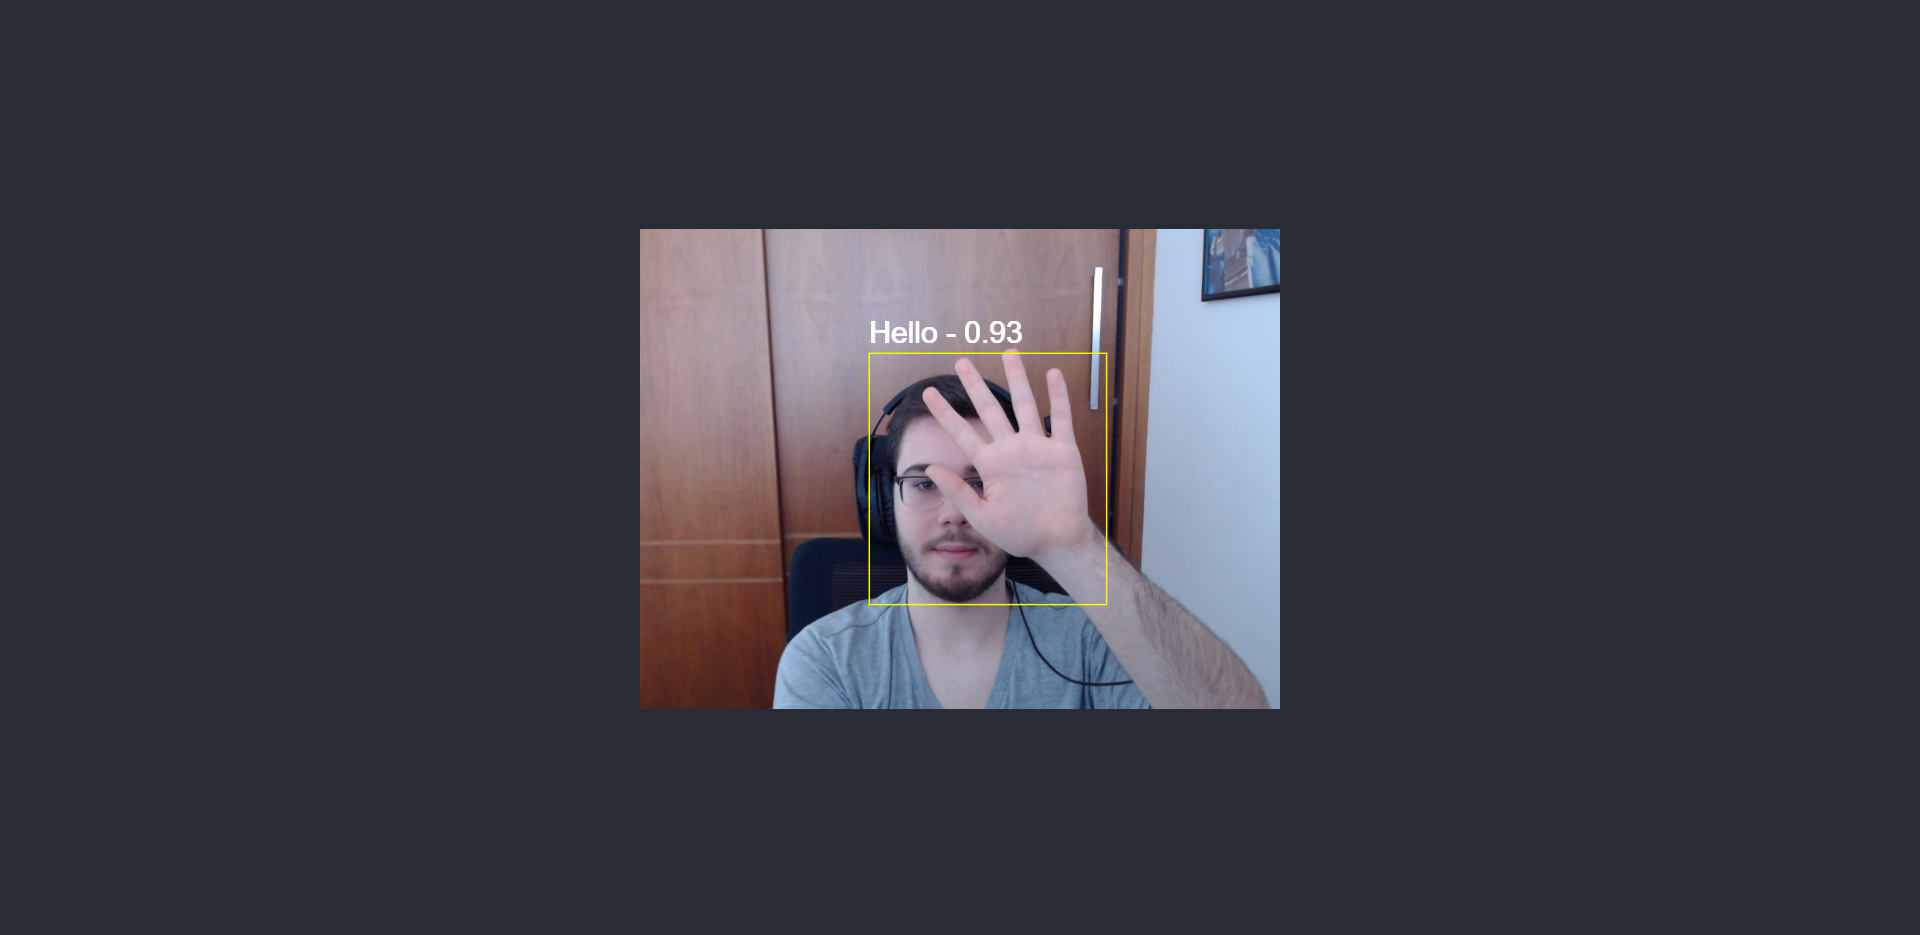
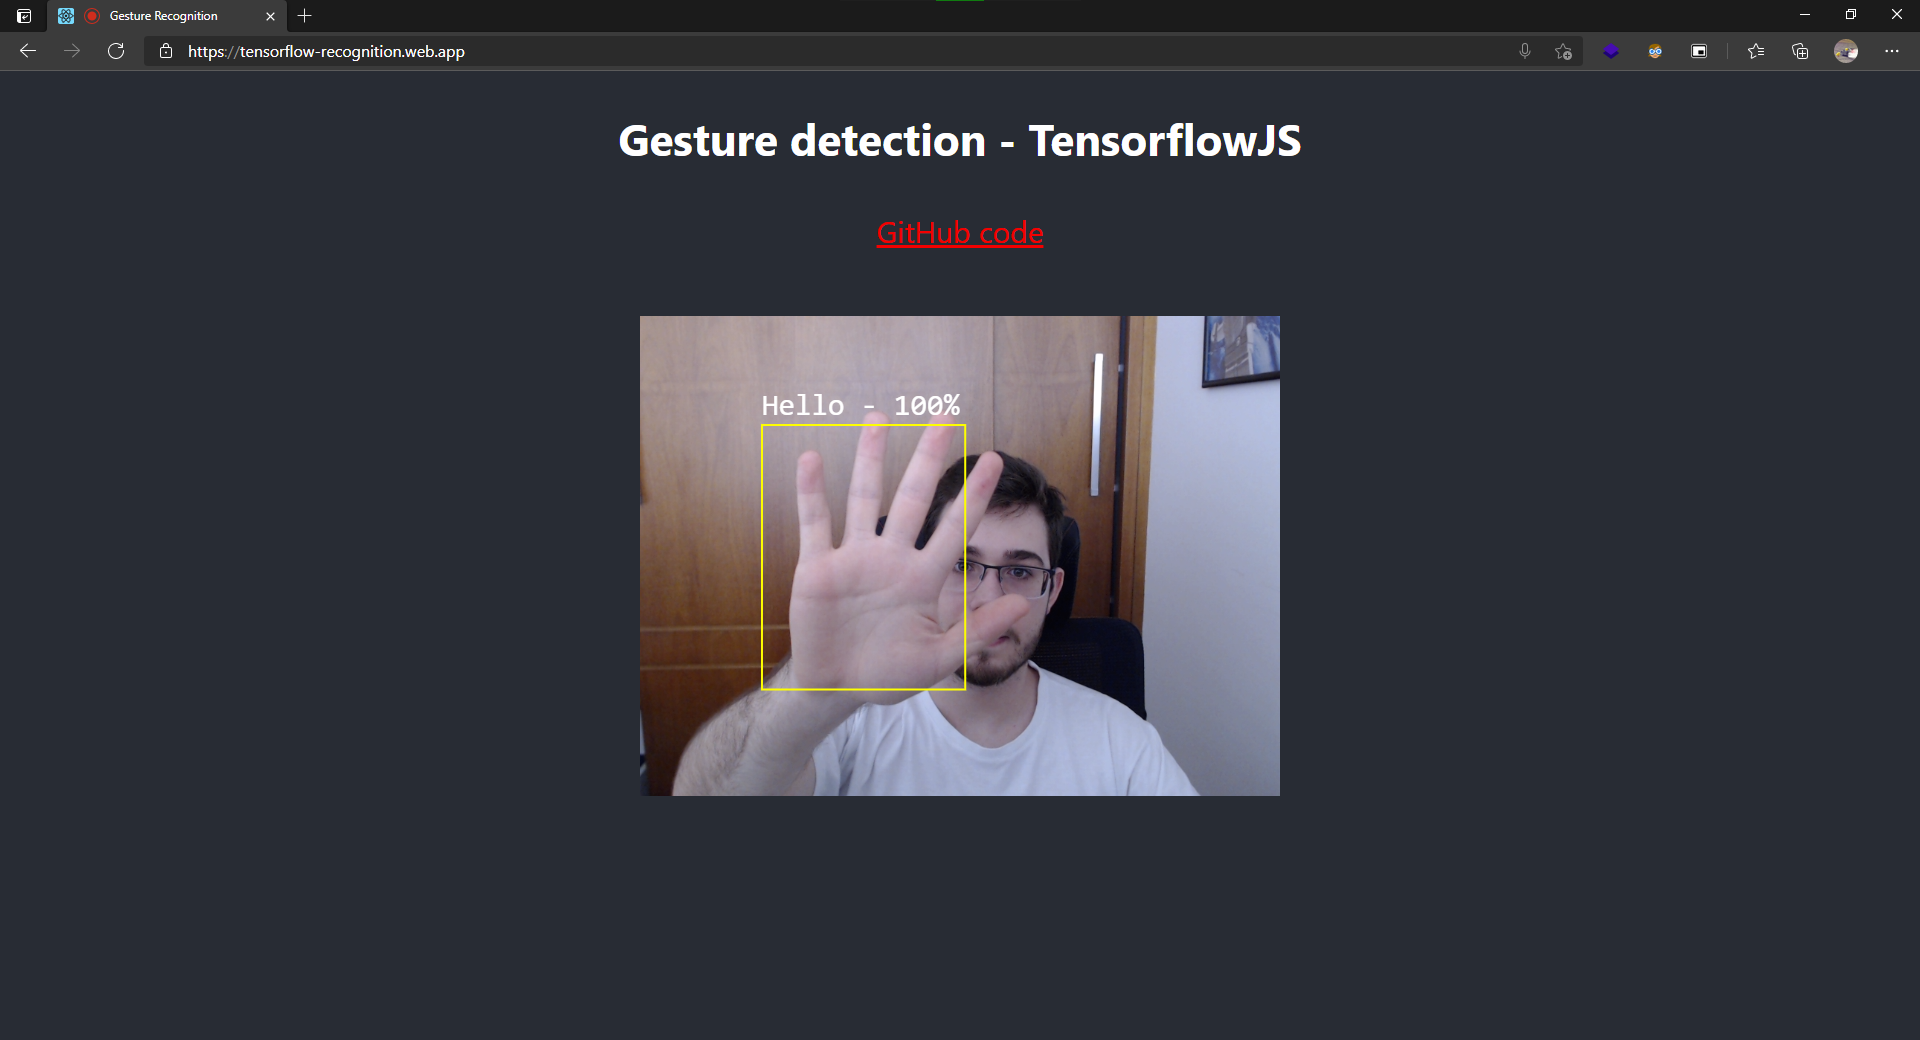
Minor visual changes

Changed region(s): [[0.3125, 0.2171, 0.6875, 0.7754], [0.0, 0.0, 1.0, 0.062], [0.3125, 0.1241, 0.6875, 0.1551]]

diff --git a/src/App.js b/src/App.js
@@ -8,7 +8,7 @@ function App() {
   const webcamRef = useRef(null);
   const canvasRef = useRef(null);
 
-  const runCoco = async () => {
+  const runApp = async () => {
     // Loading model from the network
     const modelURL = 'https://tensorflowjs-model.s3.us-south.cloud-object-storage.appdomain.cloud/model.json';
     const net = await tf.loadGraphModel(modelURL);
@@ -67,44 +67,60 @@ function App() {
   };
 
   useEffect(() => {
-    runCoco()
+    runApp()
   }, []);
 
   return (
-    <div className='App'>
-      <header className='App-header'>
-        <Webcam
-          ref={webcamRef}
-          muted={true} 
-          style={{
+    <>
+      <div className='App'>
+        <header className='App-header'>
+          <h2 style={{
             position: 'absolute',
-            marginLeft: 'auto',
-            marginRight: 'auto',
-            left: 0,
-            right: 0,
-            textAlign: 'center',
-            zindex: 9,
-            width: 640,
-            height: 480,
-          }}
-        />
+            marginTop: '-800px'
+          }}>Gesture detection - TensorflowJS</h2>
 
-        <canvas
-          ref={canvasRef}
-          style={{
-            position: 'absolute',
-            marginLeft: 'auto',
-            marginRight: 'auto',
-            left: 0,
-            right: 0,
-            textAlign: 'center',
-            zindex: 8,
-            width: 640,
-            height: 480,
-          }}
-        />
-      </header>
-    </div>
+          <a 
+            href='https://github.com/andrecreppe/gesture-tensorflow-react' 
+            style={{
+              position: 'absolute',
+              marginTop: '-650px',
+              fontSize: 30,
+              color: 'red'
+            }}>GitHub code</a>
+          
+          <Webcam
+            ref={webcamRef}
+            muted={true} 
+            style={{
+              position: 'absolute',
+              marginLeft: 'auto',
+              marginRight: 'auto',
+              left: 0,
+              right: 0,
+              textAlign: 'center',
+              zindex: 9,
+              width: 640,
+              height: 480,
+            }}
+          />
+
+          <canvas
+            ref={canvasRef}
+            style={{
+              position: 'absolute',
+              marginLeft: 'auto',
+              marginRight: 'auto',
+              left: 0,
+              right: 0,
+              textAlign: 'center',
+              zindex: 8,
+              width: 640,
+              height: 480,
+            }}
+          />
+        </header>
+      </div>
+    </>
   );
 }
 

diff --git a/src/utilities.js b/src/utilities.js
@@ -30,12 +30,12 @@ export const drawRect = (boxes, classes, scores, threshold, imgWidth, imgHeight,
       const text = classes[i];
 
       ctx.strokeStyle = labelMap[text]['color'];
-      ctx.linewidth = 10;
+      ctx.lineWidth = 2;
       ctx.fillStyle = 'white';
-      ctx.font = '30px Arial';
+      ctx.font = '30px Consolas';
 
       ctx.beginPath();
-      ctx.fillText(`${labelMap[text]['name']} - ${Math.round(scores[i]*100)/100}`, x*imgWidth, y*imgHeight-10);
+      ctx.fillText(`${labelMap[text]['name']} - ${Math.round(scores[i]*100)}%`, x*imgWidth, y*imgHeight-10);
       ctx.rect(x*imgWidth, y*imgHeight, width*imgWidth/2, height*imgHeight/1.5);
       ctx.stroke();
     }

diff --git a/public/index.html b/public/index.html
@@ -24,7 +24,7 @@
       work correctly both with client-side routing and a non-root public URL.
       Learn how to configure a non-root public URL by running `npm run build`.
     -->
-    <title>React App</title>
+    <title>Gesture Recognition</title>
   </head>
   <body>
     <noscript>You need to enable JavaScript to run this app.</noscript>
